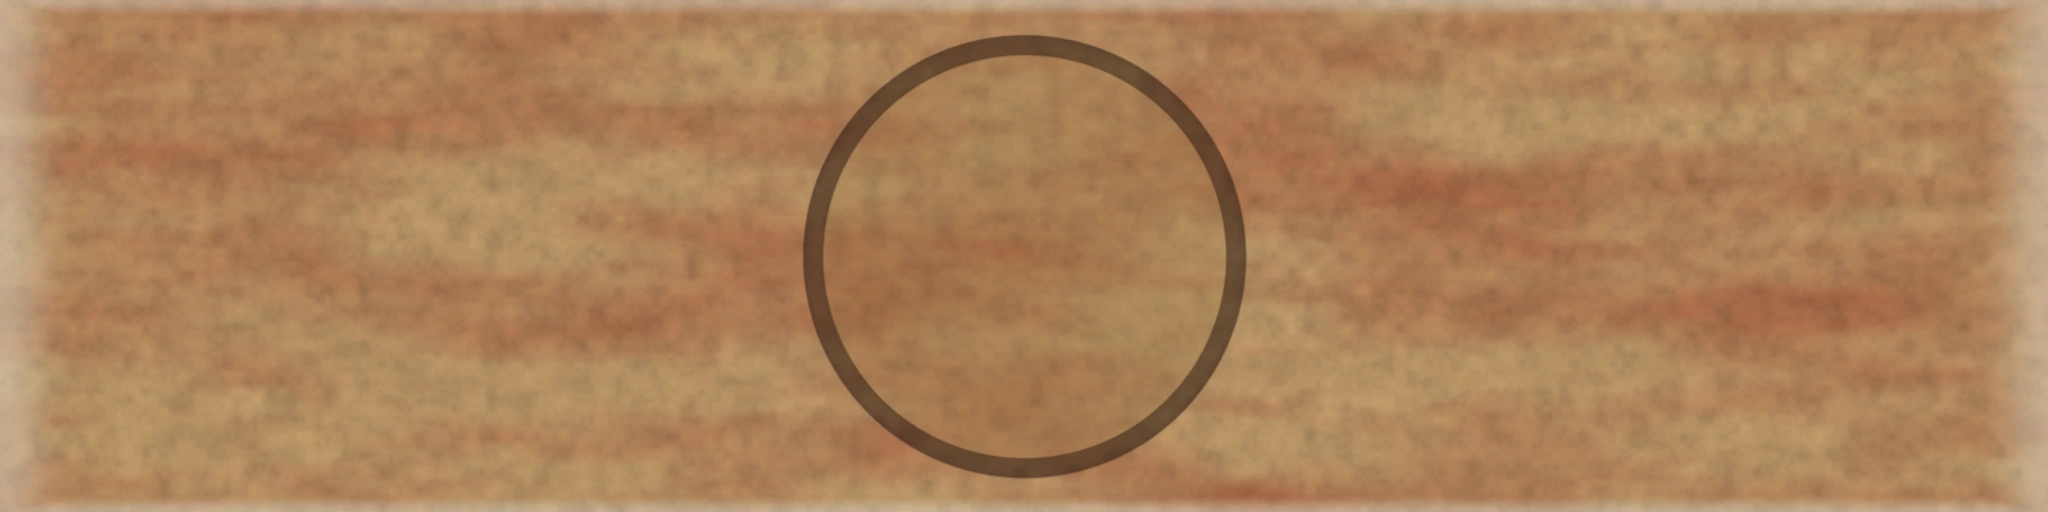
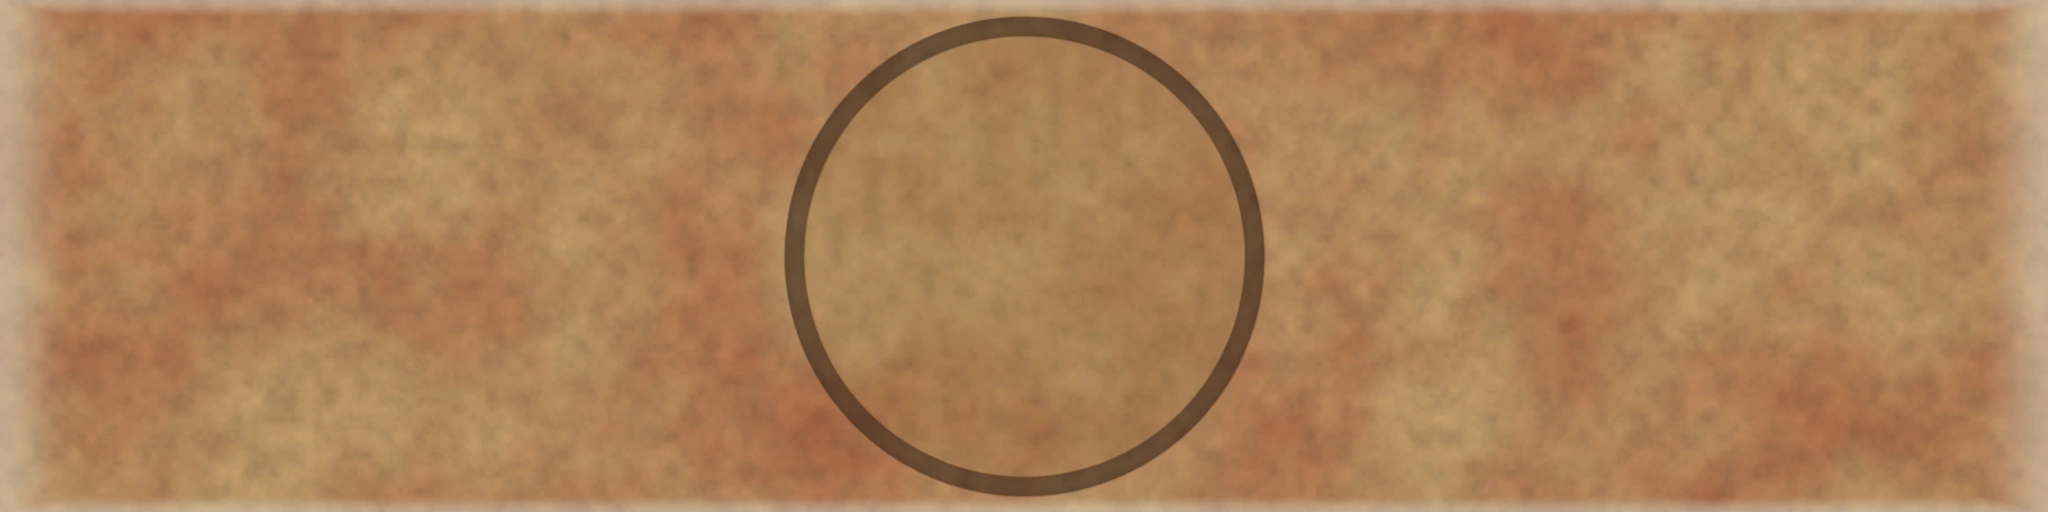
fix(wall): seat the bricks in real mortar
The mortar bed now samples the shadow map, so each course drops a contact
shadow into the joint instead of leaving painted-on lines; the bricks get the
second UV set their baked occlusion needs. Palette pulled into one warm room,
keystone emblem enlarged, hero camera framed on the brick rather than the wall.

diff --git a/apps/web/src/components/three/brick_wall.tsx b/apps/web/src/components/three/brick_wall.tsx
@@ -25,7 +25,7 @@ import { BEATS, clamp01, impact_age, smoothstep, story_progress } from "./story_
 import type { QualityTier } from "@/lib/quality";
 
 /** Emblem footprint on the keystone face (world units). */
-export const EMBLEM_SIZE = 0.42;
+export const EMBLEM_SIZE = 0.46;
 
 /* ------------------------------------------------------------------ */
 /* The emblem, as real geometry                                        */
@@ -118,7 +118,7 @@ function VariantInstances({
       mesh.setMatrixAt(i, dummy.matrix);
 
       // per-unit firing: value drift plus a hair of hue, never a rainbow
-      const v = 0.87 + u.tint * 0.2;
+      const v = 0.92 + u.tint * 0.14;
       const warm = (u.tint - 0.5) * 0.06;
       color.setRGB(v * (1 + warm), v, v * (1 - warm * 0.9));
       mesh.setColorAt(i, color);
@@ -143,18 +143,35 @@ function VariantInstances({
 /* ------------------------------------------------------------------ */
 
 const MORTAR_VERT = /* glsl */ `
+  #include <common>
+  #include <shadowmap_pars_vertex>
+
   varying vec3 vPos;
   varying float vViewZ;
+
   void main() {
     vPos = position;
     vec4 mv = modelViewMatrix * vec4(position, 1.0);
     vViewZ = -mv.z;
+
+    // The bricks are proud of this bed, so the bed has to receive their
+    // shadows: without them the joints read as painted-on lines and the wall
+    // looks like a texture instead of masonry.
+    vec3 objectNormal = vec3(0.0, 0.0, 1.0);
+    vec3 transformedNormal = normalMatrix * objectNormal;
+    vec4 worldPosition = modelMatrix * vec4(position, 1.0);
+    #include <shadowmap_vertex>
+
     gl_Position = projectionMatrix * mv;
   }
 `;
 
 const MORTAR_FRAG = /* glsl */ `
   precision highp float;
+
+  #include <common>
+  #include <packing>
+  #include <shadowmap_pars_fragment>
 
   uniform vec3 uBase;
   uniform vec3 uRippleColor;
@@ -201,6 +218,23 @@ const MORTAR_FRAG = /* glsl */ `
     float soot = smoothstep(7.0, 0.0, vPos.y + 8.5) * uSoot;
     col = mix(col, col * 0.38, soot);
 
+    // Contact shadow from the courses above: this is what gives the bed its
+    // depth. Sampled directly rather than through getShadowMask(), which
+    // relies on a receiveShadow uniform only the built-in materials get.
+    float lit = 1.0;
+    #if defined( USE_SHADOWMAP ) && NUM_DIR_LIGHT_SHADOWS > 0
+      DirectionalLightShadow dl = directionalLightShadows[ 0 ];
+      lit = getShadow(
+        directionalShadowMap[ 0 ],
+        dl.shadowMapSize,
+        dl.shadowIntensity,
+        dl.shadowBias,
+        dl.shadowRadius,
+        vDirectionalShadowCoord[ 0 ]
+      );
+    #endif
+    col *= mix(0.34, 1.0, lit);
+
     // the ripple: one slow ring travelling out through the joints
     float d = length(vPos.xy - uRippleCentre);
     float radius = uRipple * 30.0;
@@ -218,19 +252,26 @@ function MortarBed({ width }: { width: number }) {
   const material = useMemo(
     () =>
       new THREE.ShaderMaterial({
+        lights: true,
         vertexShader: MORTAR_VERT,
         fragmentShader: MORTAR_FRAG,
-        uniforms: {
-          uBase: { value: new THREE.Color("#6b6257") },
-          uRippleColor: { value: new THREE.Color("#3DD6C8") },
-          uRippleCentre: {
-            value: new THREE.Vector2(0, SOCKET[1] - WALL_HEIGHT / 2),
+        // lights: true needs the light/shadow uniform block merged in, or the
+        // renderer has nowhere to write the shadow matrices at draw time.
+        uniforms: THREE.UniformsUtils.merge([
+          THREE.UniformsLib.lights,
+          {
+            receiveShadow: { value: true },
+            uBase: { value: new THREE.Color("#94897a") },
+            uRippleColor: { value: new THREE.Color("#3DD6C8") },
+            uRippleCentre: {
+              value: new THREE.Vector2(0, SOCKET[1] - WALL_HEIGHT / 2),
+            },
+            uRipple: { value: 0 },
+            uSoot: { value: 0.32 },
+            uFogColor: { value: new THREE.Color("#050507") },
+            uFogDensity: { value: 0.052 },
           },
-          uRipple: { value: 0 },
-          uSoot: { value: 0.6 },
-          uFogColor: { value: new THREE.Color("#050507") },
-          uFogDensity: { value: 0.028 },
-        },
+        ]),
       }),
     [],
   );
@@ -308,17 +349,20 @@ export function BrickWall({
   const cols = wall_columns(tier, portrait);
   const layout = useMemo(() => make_wall_layout(cols), [cols]);
 
-  const geometry = useMemo(
-    () =>
-      new RoundedBoxGeometry(
-        BRICK_SIZE[0],
-        BRICK_SIZE[1],
-        BRICK_SIZE[2],
-        3,
-        0.028,
-      ),
-    [],
-  );
+  const geometry = useMemo(() => {
+    const g = new RoundedBoxGeometry(
+      BRICK_SIZE[0],
+      BRICK_SIZE[1],
+      BRICK_SIZE[2],
+      3,
+      0.05,
+    );
+    // aoMap reads the second UV set; without it the baked occlusion is sampled
+    // at one texel and every face lights identically, which is exactly what
+    // made the wall read as tiles rather than set masonry.
+    g.setAttribute("uv1", g.attributes.uv!);
+    return g;
+  }, []);
 
   const groups = useMemo(() => {
     const map = new Map<BrickVariant, WallUnit[]>();

diff --git a/apps/web/src/components/three/brick_story_scene.tsx b/apps/web/src/components/three/brick_story_scene.tsx
@@ -40,8 +40,8 @@ import {
  * when the medallion lights up. The fov stays a long-lens 34°.
  */
 const POSES = [
-  { p: 0.0, ax: 0.35, ay: 17.25, w: 13.5, elev: 9 },
-  { p: 0.1, ax: 0.3, ay: 17.1, w: 13.0, elev: 9 },
+  { p: 0.0, ax: 1.2, ay: 19.9, w: 11.4, elev: 15 },
+  { p: 0.1, ax: 0.9, ay: 19.4, w: 10.2, elev: 13 },
   { p: 0.3, ax: 0, ay: 15.45, w: 7.2, elev: 5 },
   { p: 0.46, ax: 0, ay: 15.72, w: 5.6, elev: 4 },
   { p: 0.66, ax: 0, ay: 12.2, w: 12.6, elev: 6 },
@@ -312,14 +312,14 @@ function SceneContent({
 
   return (
     <>
-      <fogExp2 attach="fog" args={["#050507", 0.026]} />
+      <fogExp2 attach="fog" args={["#050507", 0.052]} />
 
       {/* One light direction for the whole sequence, and for the baked
           textures behind it: warm low sun from the upper left. */}
-      <hemisphereLight args={["#273540", "#120d0a", 0.55]} />
+      <hemisphereLight args={["#273540", "#120d0a", 0.3]} />
       <directionalLight
         position={[-9.5, 6.2, 11]}
-        intensity={2.5}
+        intensity={1.8}
         color="#ffe0bc"
         castShadow={shadows}
         shadow-mapSize-width={tier === "high" ? 2048 : 1024}
@@ -335,18 +335,18 @@ function SceneContent({
       />
       {/* cool counter-light from behind right: separates arrises from the
           mortar without ever reading as a second sun */}
-      <directionalLight position={[10, 2.4, -7]} intensity={0.55} color="#7fd9d2" />
+      <directionalLight position={[10, 2.4, -7]} intensity={0.4} color="#7fd9d2" />
 
       <Environment resolution={tier === "high" ? 256 : 128} frames={1}>
         <Lightformer
-          intensity={1.1}
+          intensity={2.2}
           position={[-4, 6, 6]}
           rotation={[Math.PI / 2.2, 0, -Math.PI / 5]}
           scale={[10, 4, 1]}
           color="#fff2e2"
         />
         <Lightformer
-          intensity={0.45}
+          intensity={0.9}
           position={[6, 1, 4]}
           rotation={[0, -Math.PI / 2.6, 0]}
           scale={[6, 6, 1]}
@@ -387,7 +387,7 @@ export default function BrickStoryScene({ on_ready }: { on_ready?: () => void })
   return (
     <Canvas
       dpr={profile.dpr}
-      shadows={tier !== "low"}
+      shadows={tier !== "low" ? "percentage" : false}
       camera={{ fov: FOV, position: [0.35, 19.3, 13.4], near: 0.4, far: 160 }}
       gl={{
         antialias: tier !== "low",

diff --git a/apps/web/src/components/three/brick_keystone.tsx b/apps/web/src/components/three/brick_keystone.tsx
@@ -53,8 +53,8 @@ const ease = (t: number, kind: Ease) => {
  * pitch. More than that reads as a game object, not a masonry unit.
  */
 const JOURNEY: Keyframe[] = [
-  { p: BEATS.handoff, pos: [1.68, 18.35, 1.15], rot: [-0.175, 0.61, 0.05], ease: "inOut" },
-  { p: 0.2, pos: [0.62, 17.35, 0.3], rot: [-0.07, 0.24, 0.02], ease: "inOut" },
+  { p: BEATS.handoff, pos: [2.5, 21.4, 1.5], rot: [-0.175, 0.61, 0.05], ease: "inOut" },
+  { p: 0.2, pos: [0.75, 17.9, 0.34], rot: [-0.07, 0.24, 0.02], ease: "inOut" },
   { p: 0.3, pos: [0, SOCKET[1] + 1.0, -0.12], rot: [-0.02, 0.02, 0], ease: "inOut" },
   { p: 0.4, pos: [0, SOCKET[1] + 0.6, SOCKET[2] + 0.06], rot: [0, 0, 0], ease: "in" },
   { p: BEATS.impact + 0.002, pos: [SOCKET[0], SOCKET[1], SOCKET[2]], rot: [0, 0, 0], ease: "out" },
@@ -158,10 +158,21 @@ function GoldFlare() {
 export function Keystone({ materials }: { materials: BrickMaterialSet }) {
   const group = useRef<THREE.Group>(null);
   const emblem = useEmblemGeometry(1);
-  const body = useMemo(
-    () => new RoundedBoxGeometry(BRICK_SIZE[0], BRICK_SIZE[1], BRICK_SIZE[2], 5, 0.03),
-    [],
-  );
+  const body = useMemo(() => {
+    const geometry = new RoundedBoxGeometry(BRICK_SIZE[0], BRICK_SIZE[1], BRICK_SIZE[2], 5, 0.03);
+    const position = geometry.attributes.position!;
+    const normal = geometry.attributes.normal!;
+    const uv = geometry.attributes.uv!;
+    for (let i = 0; i < position.count; i++) {
+      if (normal.getZ(i) > 0.55) continue; // the face keeps the baked sheet
+      // a quiet corner of the same sheet: clay, no emblem, no groove
+      uv.setXY(i, 0.03 + (position.getX(i) / BRICK_SIZE[0] + 0.5) * 0.14, -0.02 + (position.getY(i) / BRICK_SIZE[1] + 0.5) * 0.12);
+    }
+    uv.needsUpdate = true;
+    // the baked face occlusion needs the second UV set too
+    geometry.setAttribute("uv1", uv);
+    return geometry;
+  }, []);
   const start = useRef<number | null>(null);
 
   useFrame((state) => {

diff --git a/apps/web/src/components/sections/brick_story.tsx b/apps/web/src/components/sections/brick_story.tsx
@@ -124,13 +124,20 @@ export function BrickStory() {
       const release = smoothstep(0.885, 0.99, p);
       const drift = release > 0 ? last.drift : 0;
       frame.style.transform =
-        `translate3d(0, ${-4 * recede}vh, 0) scale(${1 - 0.1 * recede})` +
-        ` translateY(${drift}px)`;
-      frame.style.borderRadius = `${recede * 36}px`;
+        recede > 0.001 || drift > 0.5
+          ? `translate3d(0, ${-4 * recede}vh, 0) scale(${1 - 0.1 * recede})` +
+            ` translateY(${drift}px)`
+          : "none";
+      frame.style.borderRadius = recede > 0.001 ? `${recede * 36}px` : "0px";
+      // An identity filter still forces a full-screen offscreen composite on
+      // every engine, so it is cleared rather than left at blur(0): the scene
+      // costs nothing extra until the recession actually starts.
       frame.style.filter =
-        `blur(${12 * recede + 6 * release}px) ` +
-        `brightness(${1 - 0.4 * recede - 0.06 * release}) ` +
-        `saturate(${1 - 0.2 * recede})`;
+        recede > 0.001 || release > 0.001
+          ? `blur(${12 * recede + 6 * release}px) ` +
+            `brightness(${1 - 0.4 * recede - 0.06 * release}) ` +
+            `saturate(${1 - 0.2 * recede})`
+          : "none";
       frame.style.opacity = String(1 - 0.58 * release);
     };
 

diff --git a/apps/web/src/components/three/brick_materials.ts b/apps/web/src/components/three/brick_materials.ts
@@ -180,9 +180,9 @@ export function useBrickMaterials(): BrickMaterialSet {
       roughness: 0.32,
       clearcoat: 0.25,
       clearcoatRoughness: 0.35,
-      envMapIntensity: 1.5,
-      emissive: new THREE.Color("#3a2a0c"),
-      emissiveIntensity: 0.35,
+      envMapIntensity: 3.2,
+      emissive: new THREE.Color("#5a3f12"),
+      emissiveIntensity: 0.42,
     });
     created.push(gold);
 
